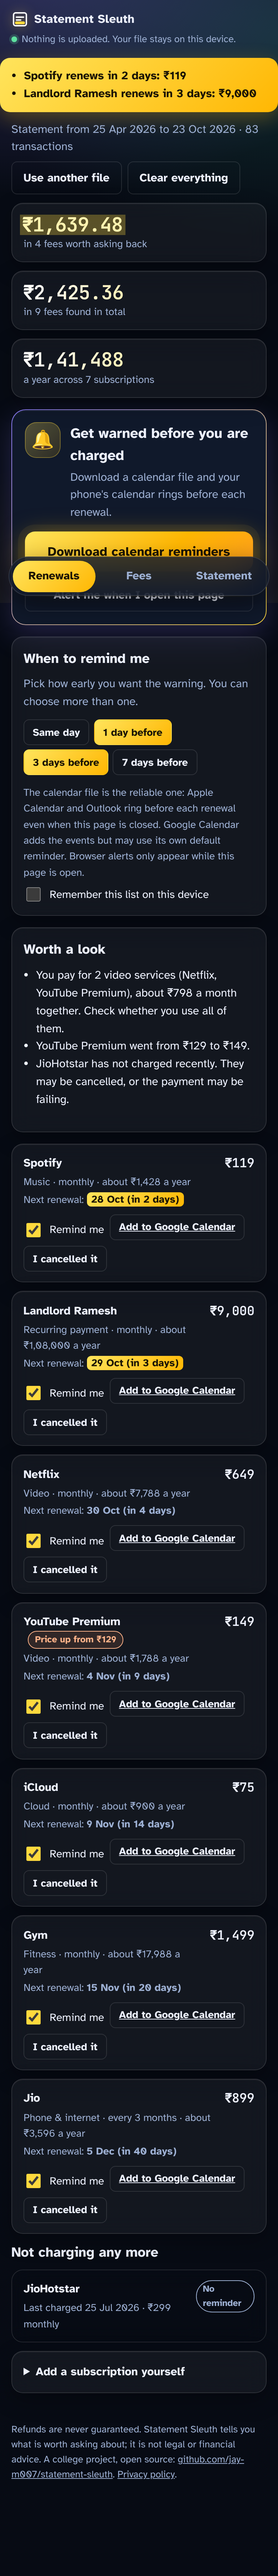
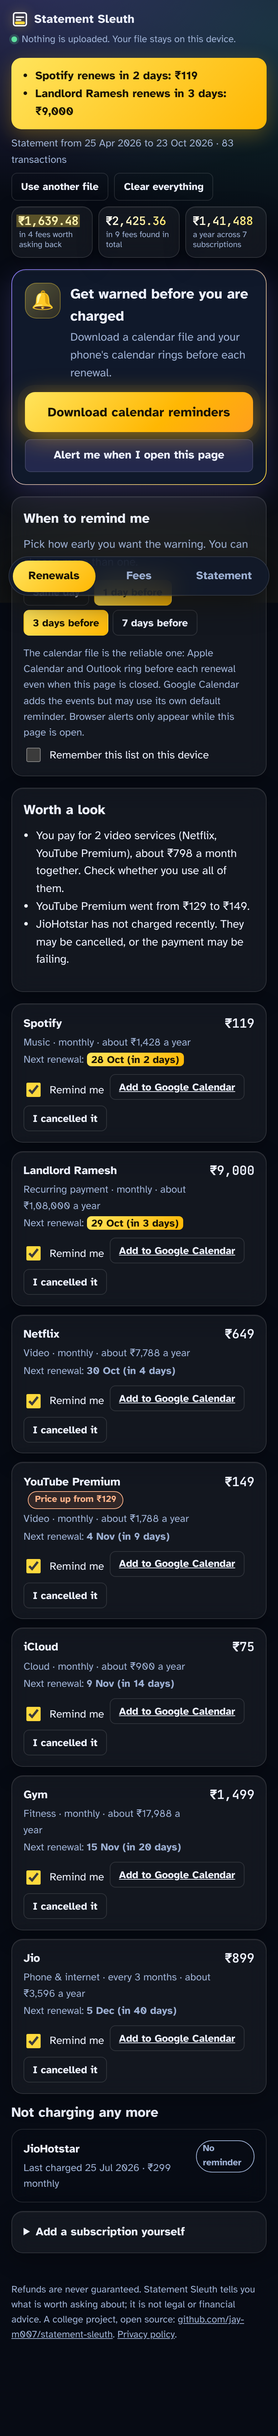
Motion layer: hover and press feedback, tap ripples, staged entrances, animated tab panels, counting figures

Changed region(s): [[0.0, 0.0, 1.0, 0.9679]]

diff --git a/web/style.css b/web/style.css
@@ -196,3 +196,75 @@ h1{background:linear-gradient(110deg,#ffffff 25%,#ffe45c 95%);-webkit-background
   .fig .n{font-size:1.02rem}
   .fig .l{font-size:.72rem;line-height:1.25;margin-top:.15rem}
 }
+
+/* ===== motion layer ===== */
+:root{--ease:cubic-bezier(.22,1,.36,1);--spring:cubic-bezier(.34,1.56,.64,1)}
+button,.drop,.card,.fig,.tag,.tabs button{-webkit-tap-highlight-color:transparent}
+.btn,.ghost,.small,.cta,.tabs button,.drop,.fig,.card,.panel-box{transition:transform .22s var(--ease),box-shadow .25s ease,background-color .2s ease,border-color .2s ease,color .2s ease,filter .2s ease}
+.btn,.ghost,.small,.cta{position:relative;overflow:hidden}
+.ripple{position:absolute;border-radius:50%;pointer-events:none;background:currentColor;opacity:.22;transform:scale(0);animation:ripple .6s var(--ease) forwards}
+@keyframes ripple{to{transform:scale(1);opacity:0}}
+@media (prefers-reduced-motion:no-preference){
+  /* hover and press */
+  @media (hover:hover){
+    .btn:hover,.small:hover,.ghost:hover{transform:translateY(-2px);box-shadow:0 8px 20px rgba(0,0,0,.35)}
+    .btn:hover,.small[aria-pressed="true"]:hover{filter:brightness(1.07)}
+    .cta:hover{transform:translateY(-3px) scale(1.012);box-shadow:0 14px 38px rgba(255,183,3,.55),inset 0 1px 0 rgba(255,255,255,.55);filter:brightness(1.05)}
+    .card:hover,.fig:hover{transform:translateY(-3px);box-shadow:0 16px 38px rgba(0,0,0,.45);border-color:rgba(255,217,61,.35)}
+    .drop:hover{transform:translateY(-2px) scale(1.01)}
+    .tabs button:hover:not([aria-selected="true"]){color:var(--ink);background:rgba(255,255,255,.06)}
+    .ledger-demo .row:hover{background:rgba(255,255,255,.05)}
+    .brand:hover .mark{transform:rotate(-8deg) scale(1.12)}
+    table tbody tr:hover td{background-color:rgba(255,255,255,.04)}
+  }
+  .mark{transition:transform .35s var(--spring)}
+  .btn:active,.small:active,.ghost:active,.cta:active,.tabs button:active{transform:scale(.95);transition-duration:.08s}
+  .card:active,.fig:active{transform:scale(.985);transition-duration:.08s}
+  .drop.over{transform:scale(1.03);box-shadow:0 0 0 6px rgba(255,217,61,.18)}
+
+  /* first screen: one orchestrated entrance */
+  .top{animation:fadeDown .6s var(--ease) both}
+  .start h1{animation:rise .7s var(--ease) .05s both}
+  .start .lede{animation:rise .7s var(--ease) .18s both}
+  .ledger-demo{animation:rise .7s var(--ease) .3s both}
+  .ledger-demo .row{animation:rowIn .5s var(--ease) both}
+  .ledger-demo .row:nth-child(1){animation-delay:.45s}.ledger-demo .row:nth-child(2){animation-delay:.55s}
+  .ledger-demo .row:nth-child(3){animation-delay:.65s}.ledger-demo .row:nth-child(4){animation-delay:.75s}
+  .pick{animation:rise .7s var(--ease) .5s both}
+  .start .how,.start .opts,#error{animation:rise .7s var(--ease) .65s both}
+  .drop{animation:breathe 3.6s ease-in-out 1.4s infinite}
+  .drop:hover,.drop.over{animation:none}
+  .dot{animation:pulse 2.6s ease-in-out infinite}
+  @keyframes fadeDown{from{opacity:0;transform:translateY(-14px)}}
+  @keyframes rise{from{opacity:0;transform:translateY(18px)}}
+  @keyframes rowIn{from{opacity:0;transform:translateX(-14px)}}
+  @keyframes breathe{0%,100%{border-color:rgba(157,176,211,.4)}50%{border-color:rgba(255,217,61,.75)}}
+  @keyframes pulse{0%,100%{box-shadow:0 0 0 3px rgba(94,224,160,.2)}50%{box-shadow:0 0 0 7px rgba(94,224,160,0)}}
+
+  /* results: figures pop in, cards cascade, panels slide on tab change */
+  #results:not([hidden]) .toolbar{animation:fadeDown .45s var(--ease) both}
+  #results:not([hidden]) .fig{animation:pop .6s var(--spring) both}
+  #results:not([hidden]) .fig:nth-child(2){animation-delay:.1s}
+  #results:not([hidden]) .fig:nth-child(3){animation-delay:.2s}
+  .remind-hero{animation:rise .6s var(--ease) .25s both}
+  [role="tabpanel"]:not([hidden]){animation:panelIn .42s var(--ease) both}
+  [role="tabpanel"]:not([hidden]) .card,[role="tabpanel"]:not([hidden]) .panel-box{animation:rise .5s var(--ease) both}
+  [role="tabpanel"]:not([hidden]) > :nth-child(2){animation-delay:.06s}
+  [role="tabpanel"]:not([hidden]) > :nth-child(3){animation-delay:.12s}
+  [role="tabpanel"]:not([hidden]) > :nth-child(4){animation-delay:.18s}
+  [role="tabpanel"]:not([hidden]) > :nth-child(5){animation-delay:.24s}
+  [role="tabpanel"]:not([hidden]) > :nth-child(n+6){animation-delay:.3s}
+  .banner:not([hidden]){animation:slideIn .55s var(--spring) both}
+  .tabs button[aria-selected="true"]{animation:tabPop .38s var(--spring)}
+  .remind-hero.on .rh-icon{animation:checkPop .6s var(--spring) both}
+  .remind-hero .status:not(:empty){animation:rise .35s var(--ease) both}
+  @keyframes pop{from{opacity:0;transform:translateY(14px) scale(.86)}}
+  @keyframes panelIn{from{opacity:0;transform:translateX(18px)}}
+  @keyframes slideIn{from{opacity:0;transform:translateY(-22px) scale(.96)}}
+  @keyframes tabPop{0%{transform:scale(.88)}100%{transform:scale(1)}}
+  @keyframes checkPop{0%{transform:scale(.3) rotate(-30deg);opacity:0}100%{transform:scale(1) rotate(0);opacity:1}}
+
+  /* soft ambient drift in the background glow */
+  body{background-attachment:fixed}
+  html{scroll-behavior:smooth}
+}

diff --git a/web/app.js b/web/app.js
@@ -140,17 +140,40 @@ function handleFile(file) {
 function show() {
   const r = state.result;
   if (!r && !state.plan.length) { $("start").hidden = false; $("results").hidden = true; return; }
+  const firstShow = $("results").hidden;
   $("start").hidden = true; $("results").hidden = false;
   $("period").textContent = r ? `Statement from ${pretty(r.period.from)} to ${pretty(r.period.to)} · ${r.txns.length} transactions${r.skipped ? ` (${r.skipped} rows skipped)` : ""}` : "Saved reminders on this device";
   const hint = $("hint");
   hint.hidden = !(r && r.hint);
   if (r && r.hint) hint.textContent = "Every amount in this file is positive. If this is a credit-card statement, tick “spending shows as positive numbers” under Settings and load it again.";
-  renderFigures(); renderRenewals(); renderFees(); renderLedger(); renderBanner();
+  renderFigures(); renderRenewals(); renderFees(); renderLedger(); renderBanner(); if (firstShow) countUp($("figures"));
   document.body.classList.add("js-anim");
   requestAnimationFrame(() => requestAnimationFrame(() => document.body.classList.add("go")));
 }
 
 function fig(num, label, hi) { return h("div", { class: "fig" }, h("div", { class: "n" }, hi ? h("mark", { class: "fee" }, num) : num), h("div", { class: "l" }, label)); }
+/* count the headline numbers up from zero once, so the screen feels alive */
+function countUp(root) {
+  if (window.matchMedia && window.matchMedia("(prefers-reduced-motion: reduce)").matches) return;
+  for (const node of root.querySelectorAll(".fig .n")) {
+    const target = node.querySelector("mark") || node;
+    const text = target.textContent;
+    const m = text.match(/^(\D*)([\d,.]+)(\D*)$/);
+    if (!m) continue;
+    const end = parseFloat(m[2].replace(/,/g, ""));
+    if (!(end > 0)) continue;
+    const dec = (m[2].split(".")[1] || "").length;
+    const fmt = (v) => v.toLocaleString(state.currency === "₹" ? "en-IN" : "en-US", { minimumFractionDigits: dec, maximumFractionDigits: dec });
+    const t0 = performance.now(), dur = 900;
+    const tick = (t) => {
+      const k = Math.min(1, (t - t0) / dur), e = 1 - Math.pow(1 - k, 3);
+      target.textContent = m[1] + fmt(end * e) + m[3];
+      if (k < 1) requestAnimationFrame(tick); else target.textContent = text;
+    };
+    target.textContent = m[1] + fmt(0) + m[3];
+    requestAnimationFrame(tick);
+  }
+}
 function renderFigures() {
   const r = state.result, f = $("figures");
   f.replaceChildren();
@@ -417,3 +440,17 @@ if (state.keep) {
   if (Array.isArray(saved) && saved.length) { state.plan = rollForward(saved); savePlan(); show(); }
 }
 setInterval(renderBanner, 60 * 60 * 1000);
+
+/* tap ripple on every button */
+document.addEventListener("pointerdown", (e) => {
+  const b = e.target.closest && e.target.closest(".btn,.ghost,.small,.cta");
+  if (!b || b.disabled) return;
+  const r = b.getBoundingClientRect(), d = Math.max(r.width, r.height) * 2;
+  const s = document.createElement("span");
+  s.className = "ripple";
+  s.style.width = s.style.height = d + "px";
+  s.style.left = e.clientX - r.left - d / 2 + "px";
+  s.style.top = e.clientY - r.top - d / 2 + "px";
+  b.append(s);
+  setTimeout(() => s.remove(), 650);
+}, { passive: true });
